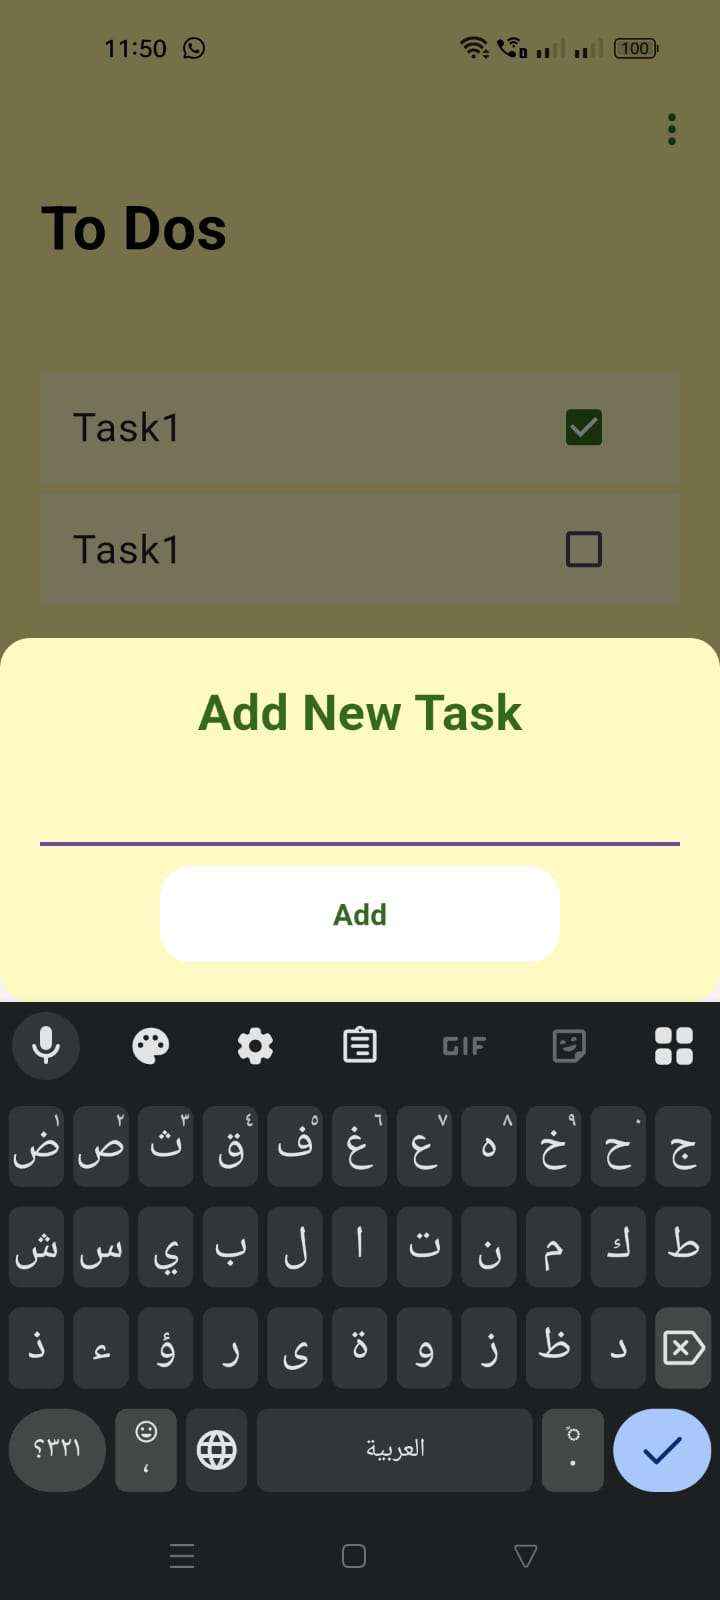
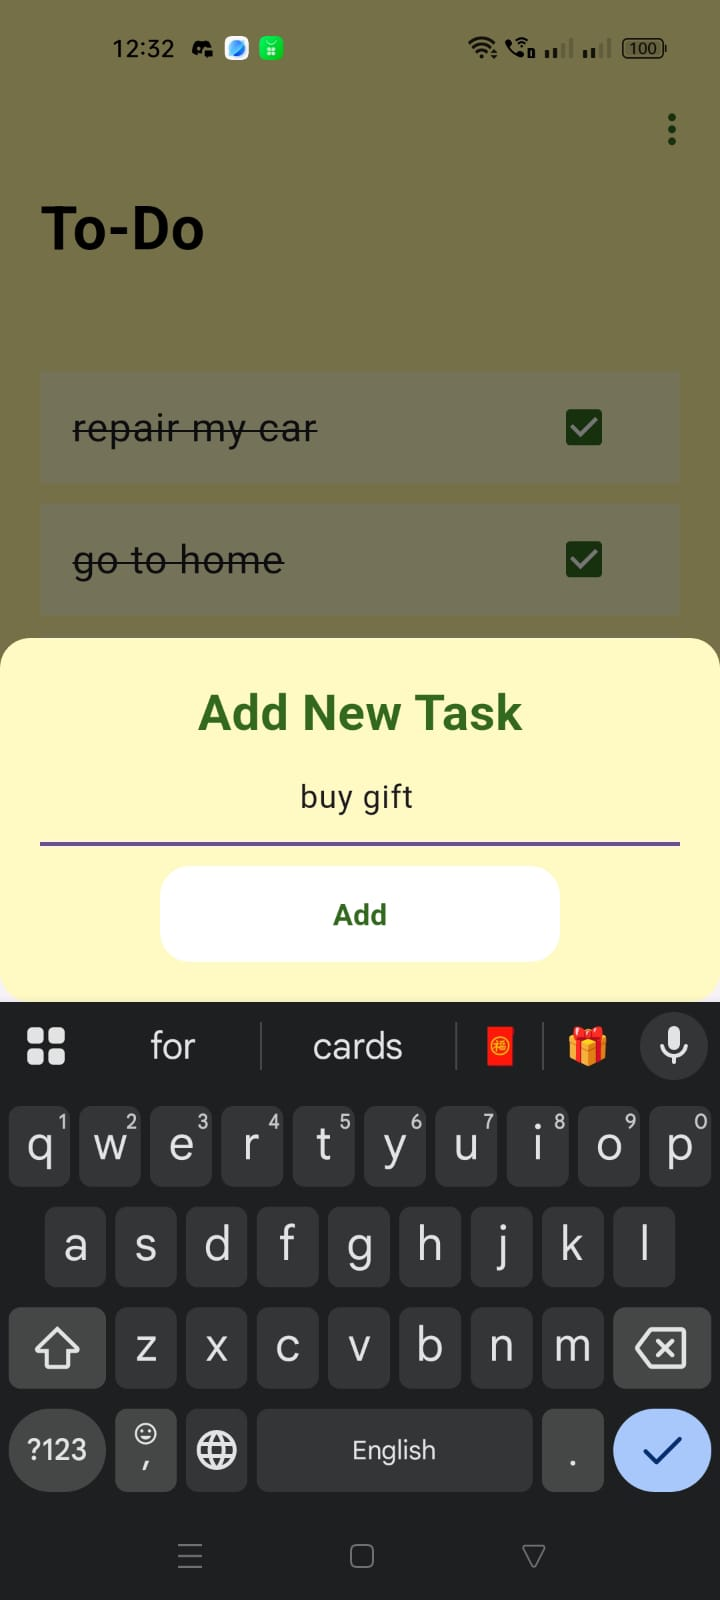
task-11

diff --git a/Task-11/to_do/lib/home.dart b/Task-11/to_do/lib/home.dart
@@ -5,15 +5,13 @@ import 'package:to_do/task.dart';
 import 'package:to_do/tasks.dart';
 
 class Home extends StatefulWidget{
-  final Function addTaskCall ;
-  const Home({super.key, required this.addTaskCall});
   @override
   State<Home> createState() => _Homescreen();
 
 }
 
 class _Homescreen extends State<Home> {
-  List<Task> Tasks = [
+  List<Task> taskList = [
     Task(name: "go for shopping"),
     Task(name: "buy tools"),
     Task(name: "repair my car")
@@ -36,11 +34,17 @@ class _Homescreen extends State<Home> {
             padding: EdgeInsets.only(
               bottom: MediaQuery.of(context).viewInsets.bottom
             ),
-            child: add_task((newTaskData){
-              addTaskCall(newTaskData){
-                Tasks.add(Task(name: ));
-
-            }))),);
+            child: add_task(
+              addTaskCall: (newTaskTitle) {
+                setState(() {
+                  taskList.add(Task(name: newTaskTitle));
+                });
+                Navigator.pop(context); // يقفل الشاشة بعد الإضافة
+              },
+            ),
+        ),
+        ),
+        );
       },
       backgroundColor: Colors.lightGreen[900],
       child: Icon(Icons.add,size: 30,color: Colors.white,),),
@@ -61,12 +65,12 @@ class _Homescreen extends State<Home> {
         Column(
           crossAxisAlignment: CrossAxisAlignment.start,
           children: [
-            Padding(padding: EdgeInsets.only(left: 20), child: Text("To Dos",style: TextStyle(color: Colors.black,fontSize: 30,fontWeight: FontWeight.bold),)),
+            Padding(padding: EdgeInsets.only(left: 20), child: Text("To-Do",style: TextStyle(color: Colors.black,fontSize: 30,fontWeight: FontWeight.bold),)),
             SizedBox(height: 30,),
             Container(
               padding: EdgeInsets.all(20),
               height: 500,
-              child: tasks(),
+              child: tasks(taskss: taskList),
             )
 
           ],

diff --git a/Task-11/to_do/lib/tasks.dart b/Task-11/to_do/lib/tasks.dart
@@ -15,21 +15,26 @@ class _tasksState extends State<tasks> {
 
   @override
   Widget build(BuildContext context) {
-
     return ListView.builder(
-      itemCount: widget.taskss.length,
-        itemBuilder: (context ,index){
-      return task_list(
-        isChecked: widget.taskss[index].isdone,
-        taskTitel: widget.taskss[index].name,
-        checkBoxChange: (newvalue) {
-            setState(() {
-              widget.taskss[index].DoneChanged();
-
-            });
+        itemCount: widget.taskss.length,
+        itemBuilder: (context, index) {
+          return task_list(
+            isChecked: widget.taskss[index].isdone,
+            taskTitel: widget.taskss[index].name,
+            checkBoxChange: (newvalue) {
+              setState(() {
+                widget.taskss[index].DoneChanged();
+              });
             },
-      );
-    });
+            deleteTask: () {
+              setState(() {
+                widget.taskss.removeAt(index);
+              });
+            },
+          );
+        });
+  }
+}
 
 
 
@@ -43,7 +48,7 @@ class _tasksState extends State<tasks> {
 
 
 
-    // return ListView(
+// return ListView(
     //   children: [
     //     task_list(
     //       taskTitel: Tasks[0].name,
@@ -63,6 +68,3 @@ class _tasksState extends State<tasks> {
     //
     //   ],
     // );
-  }
-}
-

diff --git a/Task-11/to_do/lib/task_list.dart b/Task-11/to_do/lib/task_list.dart
@@ -4,15 +4,18 @@ class task_list extends StatelessWidget {
   final bool? isChecked ;
   final String taskTitel;
   final void Function(bool?) checkBoxChange;
-  task_list({required this.isChecked ,required this.taskTitel, required this.checkBoxChange });
+  final VoidCallback deleteTask;
+  task_list({required this.isChecked ,required this.taskTitel, required this.checkBoxChange ,required this.deleteTask,});
 
   @override
   Widget build(BuildContext context) {
     return Container(
+        margin: EdgeInsets.only(bottom: 10),
       decoration: BoxDecoration(color: Colors.yellow[100]),
       child:
         ListTile(
-            title: Text( taskTitel ,style: TextStyle(fontSize: 20),),
+            onLongPress: deleteTask,
+            title: Text( taskTitel ,style: TextStyle(fontSize: 20,decoration: isChecked! ? TextDecoration.lineThrough : null,)),
             trailing:Checkbox(
                   value: isChecked,
                   activeColor: Colors.lightGreen[900],

diff --git a/Task-11/to_do/lib/add_task.dart b/Task-11/to_do/lib/add_task.dart
@@ -3,6 +3,8 @@ import 'package:to_do/task.dart';
 import 'package:to_do/tasks.dart';
 
 class add_task extends StatelessWidget {
+  final Function addTaskCall ;
+  const add_task({super.key, required this.addTaskCall});
 
 
   @override
@@ -26,7 +28,7 @@ class add_task extends StatelessWidget {
               decoration: BoxDecoration(color: Colors.white,borderRadius: BorderRadius.all(Radius.circular(15))),
               width: 200,
               child: TextButton(onPressed: (){
-
+                  addTaskCall(newTaskData);
                 },
               child: Text("Add",style: TextStyle(color: Colors.lightGreen[900],fontSize: 15,fontWeight: FontWeight.bold),))),
         ],
